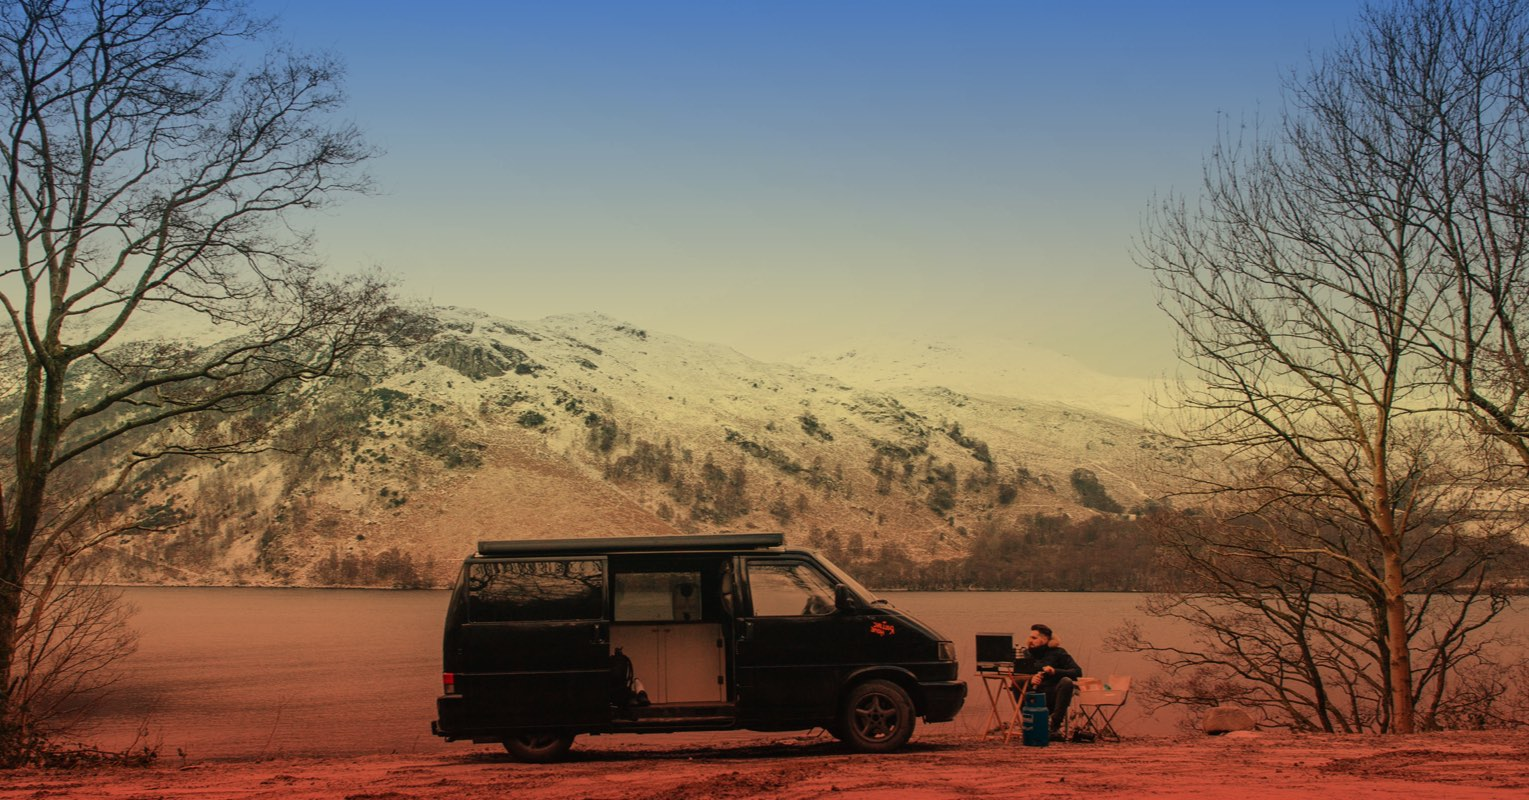
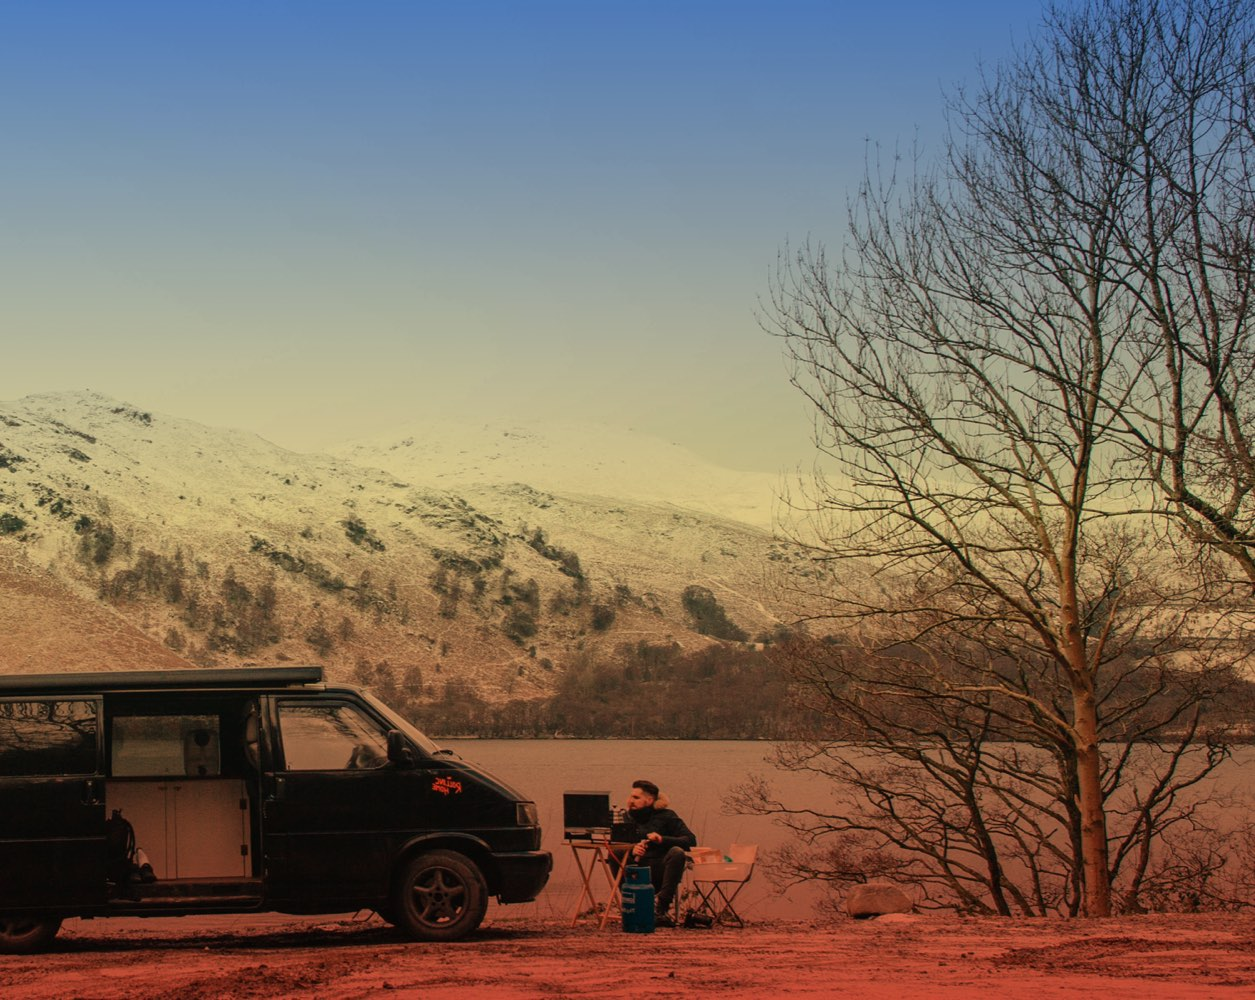
hero update

diff --git a/assets/css/app.scss b/assets/css/app.scss
@@ -43,6 +43,7 @@ $h5-font-size:                1.15rem;
 $headings-font-weight:        700;
 $headings-line-height:        0.9;
 $headings-color:              $body-color;
+$headings-margin-bottom:      1.5rem;
 
 /* buttons */
 $btn-padding-y:               17px;
@@ -194,17 +195,15 @@ input[type="search"]::-ms-clear {
 }
 /* hero */
 .hero {
-  min-height: 700px;
   position: relative;
   .hero_headline {
     position:absolute;
-    top:80px;
+    top:168px;
     left:0;
     z-index: 2;
     padding-bottom: 0;
     padding-top: 0;
     margin: 0;
-
   }
   .hero_image {
       position: relative;
@@ -227,7 +226,7 @@ input[type="search"]::-ms-clear {
 }
 .m_skew {
     width: 70vw;
-    max-height: 700px;
+    max-height: 720px;
     height: 100%;
     transform: skew(-14deg,0) translateX(150px);
     overflow: hidden;
@@ -254,7 +253,7 @@ input[type="search"]::-ms-clear {
       position: absolute;
     }
     img {
-      width: 100%;
+      max-width: 100%;
       height: 100%;
     }
 }

diff --git a/assets/css/select.scss b/assets/css/select.scss
@@ -8,11 +8,11 @@
   border: 1px solid $gray;
   border-radius: $border-radius;
   background-color: $white;
-  padding: 12px 17px;
+  padding: 11px 17px;
   font-size: 0.9rem;
   font-weight: normal;
   color:$gray-600;
-  line-height: 1.8;
+  line-height: 1.7;
   letter-spacing: 1;
   -webkit-appearance: none;
 	outline: none;
@@ -40,7 +40,7 @@
   color: $gray-600;
   width: 100%;
   margin-right: 0px;
-  margin-bottom: 8px;
+  margin-bottom: 16px;
   &.isActive{
 		z-index:999;
 		.select-styled{
